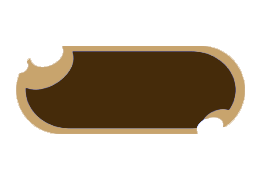
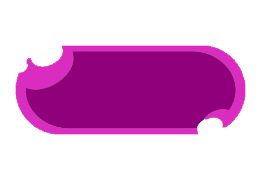
Nivel divisiones

diff --git a/src/scenes/Scene_divisiones.js b/src/scenes/Scene_divisiones.js
@@ -1,6 +1,6 @@
-class Scene_nivel1 extends Phaser.Scene {
+class Scene_divisiones extends Phaser.Scene {
     constructor() {
-        super('Scene_nivel1'); 
+        super('Scene_divisiones'); 
     }
 
     init(code){
@@ -27,9 +27,9 @@ class Scene_nivel1 extends Phaser.Scene {
     }
 
     preload() {
-        console.log('Scene_nivel1');
-        this.load.setPath('./assets/nivel1');
-        this.load.image(['fondo_nivel1', 'titulo', 'tituloPAM', 'IntentosCuadro', 'EliminaEnemigos', 'Mush', 
+        console.log('Scene_divisiones');
+        this.load.setPath('./assets/nivel1_divisiones');
+        this.load.image(['fondo_divisiones', 'titulo', 'tituloPAM', 'IntentosCuadro', 'EliminaEnemigos', 'Jelly', 
         'speech', 'btnResp', 'Intentos', 'planet', 'next2']);
         this.load.image('astro', '../astro.png');
         this.load.audio("nextSound", '../sonidos/glitch-1.mp3');
@@ -43,7 +43,7 @@ class Scene_nivel1 extends Phaser.Scene {
         const eventos = Phaser.Input.Events;
         var flag = false;
         var aciertos = 0;
-        var intentos = 8;
+        var intentos = 5;
 
         this.musicConf1 = {
             volume: 0.7,
@@ -73,14 +73,14 @@ class Scene_nivel1 extends Phaser.Scene {
         
         this.respuestas = this.add.group();
 
-        this.fondo = this.add.image(0, 0, 'fondo_nivel1', 1).setOrigin(0);
+        this.fondo = this.add.image(0, 0, 'fondo_divisiones', 1).setOrigin(0);
         this.intentosCuadro = this.add.image(55, 20, 'IntentosCuadro').setOrigin(0).setScale(0.8);
         this.titulo = this.add.image(500, 30, 'titulo').setScale(0.6);
         this.tituloPAM = this.add.image(500, 58, 'tituloPAM').setScale(0.65);
-        this.planet = this.add.image(0, 485, 'planet').setOrigin(0);
+        this.planet = this.add.image(0, 485, 'planet').setOrigin(0).setScale(0.85);
         this.letrero = this.add.image(750, 10, 'EliminaEnemigos').setOrigin(0).setScale(0.75);
-        this.mush = this.add.image(720, 0, 'Mush').setOrigin(0);
-        this.speech = this.add.image(500, 260, 'speech').setOrigin(0);
+        this.jelly = this.add.image(700, 0, 'Jelly').setOrigin(0);
+        this.speech = this.add.image(515, 265, 'speech').setOrigin(0);
         this.btn_Next = this.add.image(950, 600, 'next2').setScale(0.8).disableInteractive();
         this.btn_Resp1 = this.add.image(1000, 170, 'btnResp').setScale(0.8).setInteractive()
         .setName('Resp1');
@@ -135,13 +135,15 @@ class Scene_nivel1 extends Phaser.Scene {
             });
         }
 
-        this.txtNumOportunidades = this.add.text(215, 40, "8", 
+        this.txtNumOportunidades = this.add.text(215, 40, "5", 
         {font: '28px Rubik', fill: '#FF8139'});
 
 
         this.input.on(eventos.GAMEOBJECT_OVER, (pointer, gameObject) => {
             if(gameObject.name == 'Resp1' || gameObject.name == 'Resp2' || gameObject.name == 'Resp3'){
-                gameObject.setTint(0xF46036);
+                //gameObject.setTint(0xB050D6);
+                //gameObject.setTint(0x742495);
+                gameObject.setTint(0x7F379C);
                 gameObject.setScale(0.9);
                 this.hoverSoundResp.play();
                 this.btn_Next.setInteractive();
@@ -192,7 +194,7 @@ class Scene_nivel1 extends Phaser.Scene {
             if(flag == true && aciertos < 9 && intentos != 0){ //respuesta correcta
                 aciertos += 1;
                 console.log("Aciertos: " + aciertos);
-                this.operacion.setX(545);
+                this.operacion.setX(555);
                 this.operacion.setText("Asombroso");
                 this.time.delayedCall(2000, function(){ 
                     this.DestruirDatos();
@@ -202,9 +204,9 @@ class Scene_nivel1 extends Phaser.Scene {
             }else if(flag == false){ //respuesta incorrecta
                 intentos -= 1;
                 this.txtNumOportunidades.setText(intentos.toString());
-                this.txtTitulo = this.add.text(530, 320, "Respuesta correcta:", {font: '18px Rubik', fill: '#000000'});
-                this.operacion.setX(585);
-                this.operacion.setY(350);
+                this.txtTitulo = this.add.text(542, 325, "Respuesta correcta:", {font: '18px Rubik', fill: '#000000'});
+                this.operacion.setX(607);
+                this.operacion.setY(355);
                 this.operacion.setText(this.numResp1.name);
                 this.time.delayedCall(2000, function(){   
                     if(intentos == 0){
@@ -238,16 +240,16 @@ class Scene_nivel1 extends Phaser.Scene {
 
         //Tweens
 
-        this.tweenMush = this.add.tween({
-            targets: [this.mush],
+        this.tweenJelly = this.add.tween({
+            targets: [this.jelly],
             ease: 'Bounce',
-            y:330,
+            y:365,
             repeat: 0,
             onStart: () => {
-               this.mush.setScale(0.7);
+               this.jelly.setScale(0.7);
             },
             onComplete: () => {
-                this.mush.setScale(1);
+                this.jelly.setScale(1);
             },
         });
 
@@ -319,19 +321,28 @@ class Scene_nivel1 extends Phaser.Scene {
     }
 
     RespAleatorias(){
-        var num1 = Phaser.Math.Between(0,99);
-        var num2 = Phaser.Math.Between(0,99);
-        var respCorrecta = num1 + num2;
+        var num1;
+        var num2;
+        var respCorrecta;
+        do {
+            num1 = Phaser.Math.Between(0,99);
+            // if(aciertos == 4){
+            //     num2 = Phaser.Math.Between(2,9);
+            // }else{
+                num2 = Phaser.Math.Between(1,9);
+            //}
+            respCorrecta = num1 / num2;
+        } while(num1 % num2 != 0)
         var resp1;
         var resp2;
         do {
-            resp1 = Phaser.Math.RND.integerInRange(0,198)
+            resp1 = Phaser.Math.RND.integerInRange(0,99)
         } while (respCorrecta == resp1)
 
         do {
-            resp2 = Phaser.Math.RND.integerInRange(0,198)
+            resp2 = Phaser.Math.RND.integerInRange(0,99)
         } while (respCorrecta == resp2)
-        this.operacion = this.add.text(560, 335, num1 + " + " + num2, {font: '28px Rubik', fill: '#000000'});
+        this.operacion = this.add.text(590, 345, num1 + " ÷ " + num2, {font: '28px Rubik', fill: '#000000'});
         var Pos1 = {"x":155, "y":155};
         var Pos2 = {"x":365, "y":285};
         var Pos3 = {"x":155, "y":415};
@@ -339,7 +350,7 @@ class Scene_nivel1 extends Phaser.Scene {
         var aleatorio = Math.floor(Math.random()*(3));
         //numResp1 siempre va a tener la respuesta correcta
         this.numResp1 = this.add.text(PosRand[aleatorio]["x"], PosRand[aleatorio]["y"], respCorrecta, 
-        {font: '28px Rubik', fill: '#000000'}).setName(respCorrecta);
+        {font: '28px Rubik', fill: '#ffffff'}).setName(respCorrecta);
         if(PosRand[aleatorio] == Pos1){
             this.btn_Resp1.setState("Correcta");
             this.btn_Resp2.setState(":v");
@@ -356,10 +367,10 @@ class Scene_nivel1 extends Phaser.Scene {
         PosRand.splice(aleatorio, 1);
         aleatorio = Math.floor(Math.random()*(2));
         this.numResp2 = this.add.text(PosRand[aleatorio]["x"], PosRand[aleatorio]["y"], resp1, 
-        {font: '28px Rubik', fill: '#000000'});
+        {font: '28px Rubik', fill: '#ffffff'});
         PosRand.splice(aleatorio, 1);
         this.numResp3 = this.add.text(PosRand[0]["x"], PosRand[0]["y"], resp2, 
-        {font: '28px Rubik', fill: '#000000'});
+        {font: '28px Rubik', fill: '#ffffff'});
     }
 
     DestruirDatos(){
@@ -369,4 +380,4 @@ class Scene_nivel1 extends Phaser.Scene {
         this.numResp3.destroy();
     }
 }
-export default Scene_nivel1;
+export default Scene_divisiones;

diff --git a/src/main.js b/src/main.js
@@ -6,6 +6,7 @@ import Scene_mapa from './scenes/Scene_mapa.js';
 import Scene_temas from './scenes/Scene_temas.js';
 import Scene_nivel1 from './scenes/Scene_nivel1.js';
 import Scene_restas from './scenes/Scene_restas.js';
+import Scene_divisiones from './scenes/Scene_divisiones.js';
 import Scene_rancking from './scenes/Scene_rancking.js';
 import Scene_grupos from './scenes/Scene_grupos.js';
 import Scene_agregarGrupo from './scenes/Scene_agregarGrupo.js';
@@ -51,7 +52,7 @@ const config = {
         }
     },
     scene: [
-        Bootloader,Scene_login,Scene_registro,Scene_loginProfesor,Scene_mapa,Scene_detallesCat ,Scene_temas,Scene_nivel1,Scene_restas, Scene_rancking,Scene_grupos,Scene_agregarGrupo
+        Bootloader,Scene_login,Scene_registro,Scene_loginProfesor,Scene_mapa,Scene_detallesCat ,Scene_temas,Scene_nivel1,Scene_restas, Scene_divisiones,Scene_rancking,Scene_grupos,Scene_agregarGrupo
     ]
 };
 

diff --git a/src/scenes/Scene_login.js b/src/scenes/Scene_login.js
@@ -97,7 +97,7 @@ class Scene_login extends Phaser.Scene {
             var codigoClase = document.getElementById('codigoclase').value;
             console.log(codigoClase);
             this.scene.stop(this);
-            this.scene.start('Scene_nivel1',codigoClase);
+            this.scene.start('Scene_divisiones',codigoClase);
             this.next.play();
         });
     }
